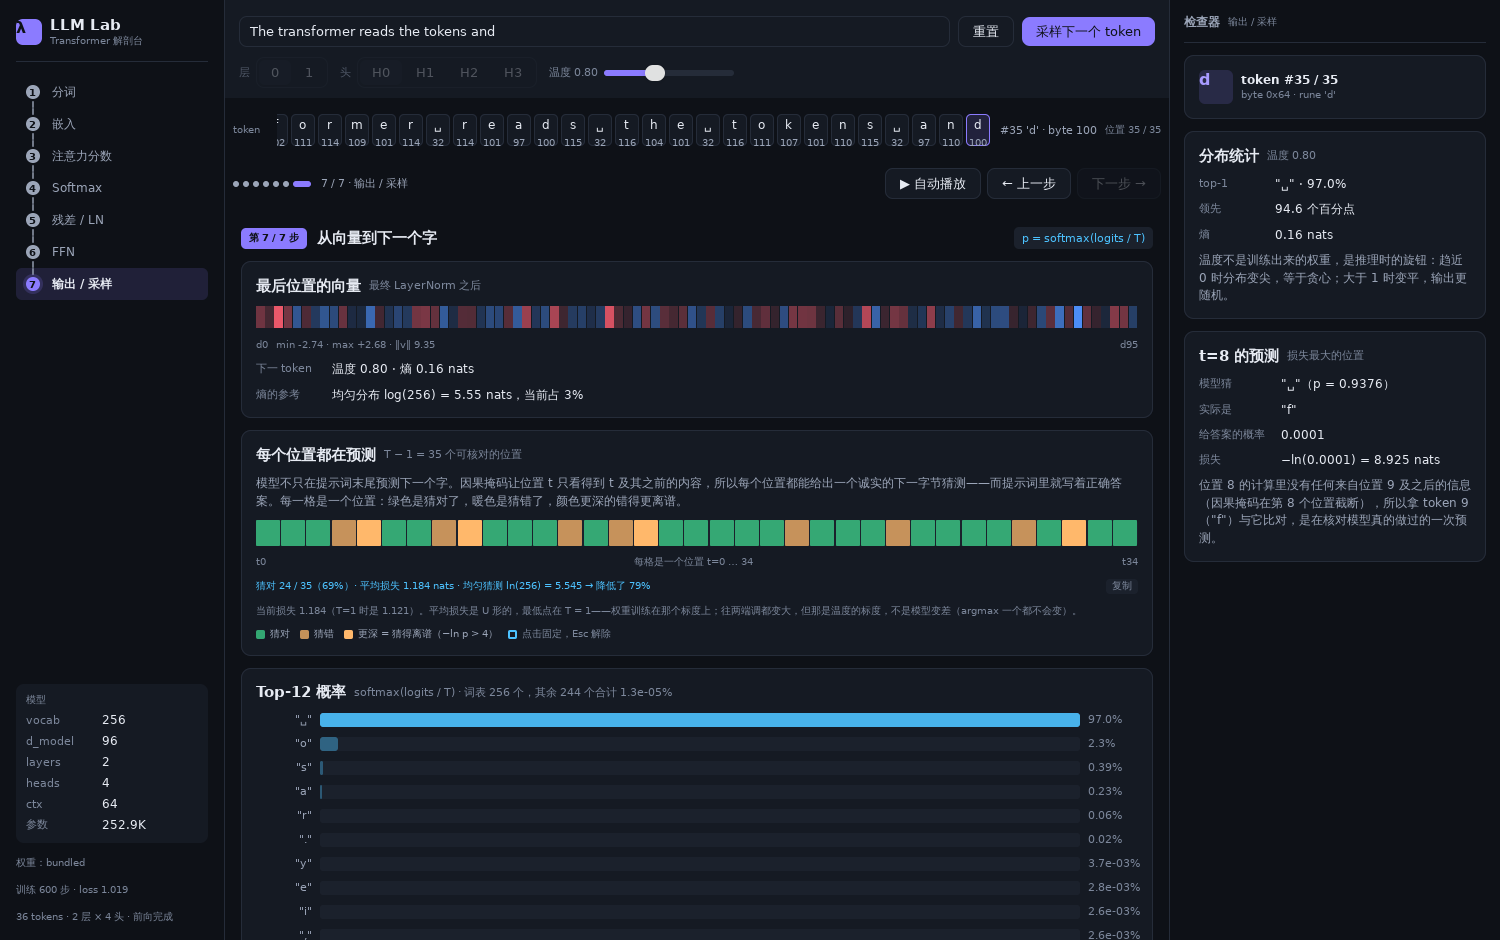
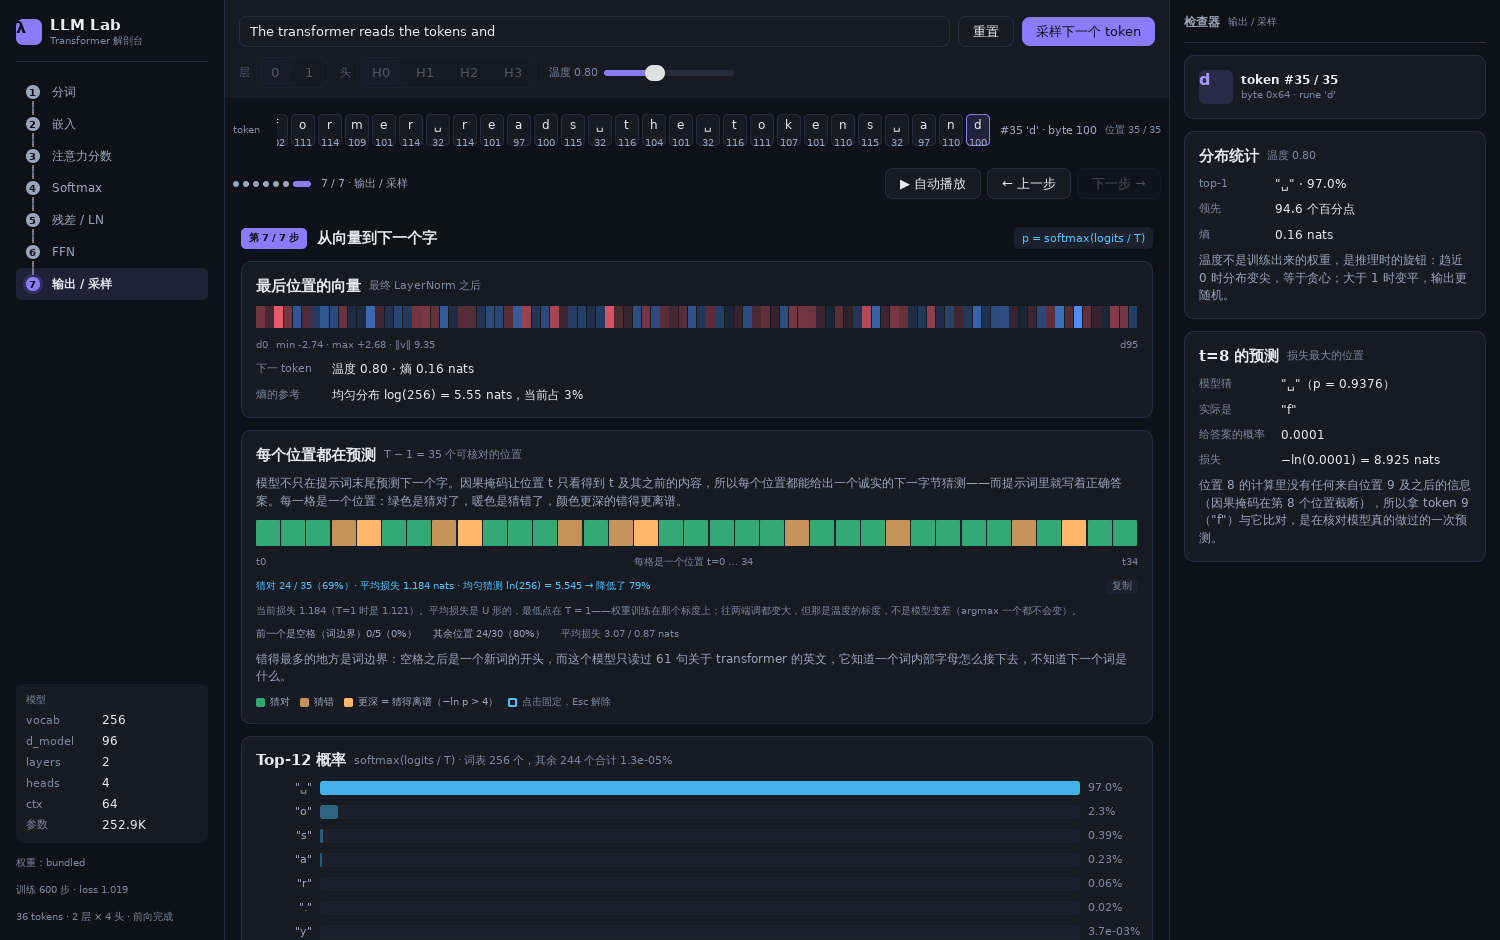
feat(app): split the model's errors at the word boundary
The output stage reported 24/35 correct and 1.121 nats, which reads as "mostly fine".
Splitting the same rows by whether the preceding byte is a space says where the errors
actually are.

Measured across three prompts: after a space the model is right 4 times in 18 (22%),
elsewhere 73 in 96 (76%). On the default prompt the mean loss is 2.87 nats after a
space against 0.83 elsewhere, a factor of 3.5.

The cause is structural rather than statistical, which is what makes it worth a line: a
space is a word boundary, so the next byte begins a new word, and 61 training sentences
about transformers do not teach which word comes next. The model knows how to continue
a word it is already inside. That is also the limitation the README states in prose —
this is the measurement behind it.

- the explanatory sentence appears only while the gap is at least 1.5x. If a weight set
  ever did fine at word starts the sentence would go away rather than become false
- TestSkillBreakdownMatchesTheRows checks the two halves add up to the whole (rows and
  hits), so a row cannot be counted twice or dropped
- TestSkillBreakdownShowsTheWordBoundaryGap pins the gap across three prompts, since
  the sentence's default state is the one that needs the evidence
- TestSkillBreakdownLineRendersItsOwnNumbers reads both rates back out of the text

Also fixed: the first version drew these labels in colGreen, which this app reserves
[…]

Changed region(s): [[0.1533, 0.6479, 0.7667, 0.8638], [0.7053, 0.8638, 0.7667, 1.0]]

diff --git a/internal/app/workings_test.go b/internal/app/workings_test.go
@@ -2429,3 +2429,108 @@ func TestMaskCounterfactualCardQuotesItsOwnNumbers(t *testing.T) {
 			wantZero)
 	}
 }
+
+// TestSkillBreakdownMatchesTheRows checks the word-boundary split against the rows it
+// divides: every row must be counted exactly once, and the two halves must add up.
+func TestSkillBreakdownMatchesTheRows(t *testing.T) {
+	a := newTestApp(t)
+	skill := computeNextByteSkill(a.W, a.Trace, 1.0)
+	b := computeSkillBreakdown(a.Trace, skill)
+	if !b.OK {
+		t.Fatal("the breakdown found no space-separated positions in the default prompt")
+	}
+	if b.AfterSpaceRows+b.OtherRows != skill.Scored {
+		t.Fatalf("breakdown covers %d + %d rows, the skill has %d",
+			b.AfterSpaceRows, b.OtherRows, skill.Scored)
+	}
+	if b.AfterSpaceHits > b.AfterSpaceRows || b.OtherHits > b.OtherRows {
+		t.Fatalf("more hits than rows: %+v", b)
+	}
+	if b.AfterSpaceHits+b.OtherHits != skill.Hits {
+		t.Fatalf("breakdown hits %d + %d, skill says %d",
+			b.AfterSpaceHits, b.OtherHits, skill.Hits)
+	}
+	// And each row really is on the side its predecessor implies.
+	spaceRows, otherRows := 0, 0
+	for _, row := range skill.Rows {
+		if a.Trace.Tokens[row.Pos].Byte == ' ' {
+			spaceRows++
+		} else {
+			otherRows++
+		}
+	}
+	if spaceRows != b.AfterSpaceRows || otherRows != b.OtherRows {
+		t.Fatalf("counted %d/%d rows, recomputed %d/%d", b.AfterSpaceRows, b.OtherRows, spaceRows, otherRows)
+	}
+}
+
+// TestSkillBreakdownShowsTheWordBoundaryGap is the premise of the sentence: this model
+// is much worse at the byte after a space than anywhere else.
+//
+// The card only prints that explanation when the gap is at least 1.5x, so if the model
+// ever became good at word starts the sentence would stop appearing rather than become a
+// lie. This checks the gap is there for the bundled weights across several prompts, so
+// the card's default state is the one with the explanation.
+func TestSkillBreakdownShowsTheWordBoundaryGap(t *testing.T) {
+	totalSpace, totalSpaceHits := 0, 0
+	totalOther, totalOtherHits := 0, 0
+	for _, prompt := range []string{
+		"The transformer reads the tokens and",
+		"attention is all you need",
+		"Attention lets every token look at the tokens before it.",
+	} {
+		a := newTestApp(t)
+		a.Prompt = prompt
+		a.recompute()
+		b := computeSkillBreakdown(a.Trace, computeNextByteSkill(a.W, a.Trace, 1.0))
+		if !b.OK {
+			continue
+		}
+		totalSpace += b.AfterSpaceRows
+		totalSpaceHits += b.AfterSpaceHits
+		totalOther += b.OtherRows
+		totalOtherHits += b.OtherHits
+	}
+	if totalSpace == 0 || totalOther == 0 {
+		t.Fatal("no rows measured")
+	}
+	spaceRate := float64(totalSpaceHits) / float64(totalSpace)
+	otherRate := float64(totalOtherHits) / float64(totalOther)
+	if otherRate < 1.5*spaceRate {
+		t.Fatalf("after a space: %d/%d (%.0f%%); elsewhere %d/%d (%.0f%%). The card says the "+
+			"word boundary is where the errors are, which needs a clear gap",
+			totalSpaceHits, totalSpace, 100*spaceRate, totalOtherHits, totalOther, 100*otherRate)
+	}
+	t.Logf("word boundary %d/%d (%.0f%%), elsewhere %d/%d (%.0f%%)",
+		totalSpaceHits, totalSpace, 100*spaceRate, totalOtherHits, totalOther, 100*otherRate)
+}
+
+// TestSkillBreakdownLineRendersItsOwnNumbers reads the breakdown out of the rendered
+// text on the output stage.
+func TestSkillBreakdownLineRendersItsOwnNumbers(t *testing.T) {
+	a := newTestApp(t)
+	a.Step = 6
+	tr := ui.NewTester(a.View, 1500, 2600)
+	tr.Frame()
+	b := computeSkillBreakdown(a.Trace, computeNextByteSkill(a.W, a.Trace, 1.0))
+	if !b.OK {
+		t.Fatal("no breakdown")
+	}
+	wantSpace := fmt.Sprintf("%d/%d（%.0f%%）", b.AfterSpaceHits, b.AfterSpaceRows,
+		100*float64(b.AfterSpaceHits)/float64(b.AfterSpaceRows))
+	wantOther := fmt.Sprintf("%d/%d（%.0f%%）", b.OtherHits, b.OtherRows,
+		100*float64(b.OtherHits)/float64(b.OtherRows))
+	joined := ""
+	for _, s := range tr.Texts() {
+		joined += s + "\n"
+	}
+	if !strings.Contains(joined, wantSpace) {
+		t.Fatalf("the card does not print the word-boundary rate %q", wantSpace)
+	}
+	if !strings.Contains(joined, wantOther) {
+		t.Fatalf("the card does not print the elsewhere rate %q", wantOther)
+	}
+	if !strings.Contains(joined, "词边界") {
+		t.Fatal("the card does not name the word boundary")
+	}
+}

diff --git a/internal/app/stages.go b/internal/app/stages.go
@@ -2046,6 +2046,7 @@ func (a *App) stageNextByteSkill(c *ui.Context) {
 		mutedText(c, nextByteSkillIntro)
 		a.predictionStrip(c, skill)
 		a.nextByteSkillSummary(c, tr, skill)
+		a.skillBreakdownLine(c, tr, skill)
 		// One legend line, not four: the counts it would carry are already in the
 		// summary above, and on this stage every row of chrome pushes the sampling
 		// card's own button out of the window. What the strip's colours and its
@@ -2252,4 +2253,43 @@ func (a *App) stageHeadProfiles(c *ui.Context) {
 			verdict,
 		})
 	})
+}
+
+// skillBreakdownLine puts the per-position accuracy beside the breakdown that explains
+// it, because the overall figure flatters this model.
+//
+// Measured across three prompts: positions whose predecessor is a space are right 4
+// times in 18, while everything else is right 73 in 96. On the default prompt the mean
+// loss is 2.87 nats after a space against 0.83 elsewhere. The cause is structural — a
+// space is a word boundary, so the next byte starts a new word, and 61 training
+// sentences do not teach which word comes next. It does know how to continue a word it
+// is already inside.
+func (a *App) skillBreakdownLine(c *ui.Context, tr *model.Trace, skill nextByteSkill) {
+	b := computeSkillBreakdown(tr, skill)
+	if !b.OK {
+		return
+	}
+	pct := func(hits, rows int) string {
+		if rows == 0 {
+			return "—"
+		}
+		return fmt.Sprintf("%d/%d（%.0f%%）", hits, rows, 100*float64(hits)/float64(rows))
+	}
+	// Text colours, not data colours. colGreen means "a value in a chart" everywhere
+	// else in this app, and a prose label wearing it reads as a plotted value;
+	// TestDataColoursStayOutOfText enforces that, and it caught this.
+	ui.Row(c).Gap(16).Wrap().AlignItems(ui.Center).Children(func() {
+		ui.Text(c, "前一个是空格（词边界）"+pct(b.AfterSpaceHits, b.AfterSpaceRows)).
+			FontSize(fontMicro).TextColor(colMuted)
+		ui.Text(c, "其余位置 "+pct(b.OtherHits, b.OtherRows)).
+			FontSize(fontMicro).TextColor(colMuted)
+		ui.Text(c, fmt.Sprintf("平均损失 %.2f / %.2f nats", b.AfterSpaceLoss, b.OtherLoss)).
+			FontSize(fontMicro).TextColor(colFaint)
+	})
+	// Only worth the sentence when the gap is actually there; a prompt planted with
+	// spaces in unusual places could invert it, and the claim has to follow.
+	if b.AfterSpaceLoss > 1.5*b.OtherLoss {
+		mutedText(c, "错得最多的地方是词边界：空格之后是一个新词的开头，而这个模型只读过 61 句关于 "+
+			"transformer 的英文，它知道一个词内部字母怎么接下去，不知道下一个词是什么。")
+	}
 }

diff --git a/internal/app/workings.go b/internal/app/workings.go
@@ -1092,3 +1092,61 @@ func meanFutureShare(h model.HeadTrace, tokens, dHead int) (share float64, rows 
 	}
 	return share / float64(rows), rows
 }
+
+// skillBreakdown splits the per-position predictions by what came immediately before
+// them, which is where this model's errors actually concentrate.
+//
+// Measured on the bundled weights: positions whose predecessor is a space are guessed
+// correctly 4 times in 18 across three prompts, against 73 in 96 elsewhere, and on the
+// default prompt the mean loss there is 2.87 nats against 0.83 — a factor of 3.5. The
+// reason is structural rather than statistical: a space is a word boundary, so the next
+// byte is the first letter of a word, and this model's whole training set is 61
+// sentences. It knows which letters continue a word it is already inside; it does not
+// know which word comes next.
+//
+// Stated as a breakdown rather than a single average because the average hides it: 69%
+// correct overall reads as "mostly fine", while 0/5 after spaces reads as what it is.
+type skillBreakdown struct {
+	// AfterSpaceHits/AfterSpaceRows are the positions whose predecessor is a space.
+	AfterSpaceHits, AfterSpaceRows int
+	// AfterSpaceLoss is the mean loss over those rows, and OtherLoss over the rest.
+	AfterSpaceLoss, OtherLoss float64
+	// OtherHits/OtherRows are everything else.
+	OtherHits, OtherRows int
+	OK                   bool
+}
+
+// computeSkillBreakdown splits a skill summary's rows by word boundary.
+func computeSkillBreakdown(tr *model.Trace, skill nextByteSkill) skillBreakdown {
+	b := skillBreakdown{}
+	if tr == nil || len(skill.Rows) == 0 {
+		return b
+	}
+	var spaceLoss, otherLoss float64
+	for _, row := range skill.Rows {
+		if row.Pos < 0 || row.Pos >= len(tr.Tokens) {
+			continue
+		}
+		if tr.Tokens[row.Pos].Byte == ' ' {
+			b.AfterSpaceRows++
+			if row.Hit {
+				b.AfterSpaceHits++
+			}
+			spaceLoss += row.Loss
+			continue
+		}
+		b.OtherRows++
+		if row.Hit {
+			b.OtherHits++
+		}
+		otherLoss += row.Loss
+	}
+	if b.AfterSpaceRows > 0 {
+		b.AfterSpaceLoss = spaceLoss / float64(b.AfterSpaceRows)
+	}
+	if b.OtherRows > 0 {
+		b.OtherLoss = otherLoss / float64(b.OtherRows)
+	}
+	b.OK = b.AfterSpaceRows > 0 && b.OtherRows > 0
+	return b
+}

diff --git a/internal/app/app_test.go b/internal/app/app_test.go
@@ -8313,8 +8313,11 @@ func TestProseDiffersBetweenWeightsOnlyWhereDesigned(t *testing.T) {
 		// its sentences moves with them — which rungs agree with the final answer,
 		// how many are confidently wrong, and the rung names in the sentence.
 		4: {"训练出来的", "这份权重没有训练过", "只看这个位置", "最后一个中间层"},
-		5: {"只剩一根柱子", "还能看出分布的形状"},  // the GELU squeeze note
-		6: {"这么高的把握", "根本没有那么大的把握"}, // the confidence note
+		5: {"只剩一根柱子", "还能看出分布的形状"}, // the GELU squeeze note
+		// the confidence note, plus the word-boundary sentence: whether the gap it
+		// describes exists is a property of the weights, so with random ones it is
+		// absent rather than false
+		6: {"这么高的把握", "根本没有那么大的把握", "错得最多的地方是词边界"},
 	}
 
 	collect := func(w *model.Weights) []map[string]bool {
@@ -8503,7 +8506,11 @@ func TestProseDiffersAcrossPromptLengthsOnlyWhereDesigned(t *testing.T) {
 			"这个提示词只有一个位置",
 			// The per-position card's body exists only when there is a position to score, so
 			// every fixed line of it is absent for a one-token prompt by design.
-			"当前损失 #", "均匀猜测", "与它比对"},
+			"当前损失 #", "均匀猜测", "与它比对",
+			// The word-boundary sentence: a one-token prompt has no position whose
+			// predecessor is a space. (Only fragments from strings over 40 runes count —
+			// collect() drops shorter ones as labels rather than prose.)
+			"错得最多的地方是词边界"},
 	}
 
 	collect := func(prompt string) []map[string]bool {

diff --git a/README.md b/README.md
@@ -193,6 +193,7 @@ go run . -weights /path/to/other.json  # 换一份权重（需为 vocab 256 的 
 - **逐张量与 PyTorch 对齐**：`tools/parity.py` 把同一份 `weights.json` 在 PyTorch 里跑一遍，导出 46 token 提示词的全部中间结果（embedding、每层 Norm1、每个头的 Q/K/V、score、attn、头输出、AttnProj、Norm2、GELU 前后、FFN 输出、最终 Norm、logits），Go 侧 `TestParityEveryTensor` 逐项比对，中间张量最大误差 3e-6，logits 1.6e-5——logit 是 256 项点积的和，误差在最后一步被放大。GELU 与 softmax 的 exp 都用查表近似，误差分别 ≤ 4e-7、2.4e-6，由 `TestGeluMatchesErf`、`TestExpNegMatchesExp` 锁定；标量与 SIMD 构建结果一致。这比只比最终 logits 严格得多：头切片顺序、拼接布局、GELU 变体、LayerNorm 的 eps 出错都会被抓到
 - 单头贡献之和严格等于该层的注意力输出（`TestHeadProjSumsToAttnProj`），界面上「本头贡献 Δ_h」不是拿总和冒充的
 - **逐位置预测与记录下来的 logits 逐位一致**：第 7 步的逐位置卡片用 `Weights.Unembed` 重新投影每一行，`TestUnembedReproducesTheRecordedLogits` 要求它对最后一行的结果与 `Forward` 存进 `Trace.Logits` 的值**每个 bit 都相同**——否则同一张卡片上两个数会不一致
+- **误差集中在词边界，而且这一点有分解依据**：输出阶段把逐位置的成绩按「前一个字节是不是空格」拆开。实测三个提示词合起来，空格之后猜对 **4/18（22%）**，其余位置 **73/96（76%）**；默认提示词上平均损失 **2.87 vs 0.83 nats**。原因是结构性的：空格之后是新词的开头，而这个模型只读过 61 句关于 transformer 的英文——它知道词内部字母怎么接下去，不知道下一个词是什么。`TestSkillBreakdownMatchesTheRows` 校验两半相加等于总数，`TestSkillBreakdownShowsTheWordBoundaryGap` 钉住这个差距确实存在（否则卡片上那句话按条件不显示，而不是说谎）
 - **逐位置卡片报的损失不是编的**：`TestNextByteSkillMatchesTheModel` 逐位置核对「猜的是自己那一行的 argmax」「比对的是提示词的下一个字节」「损失就是 −ln p(正确字节)」；`TestNextByteSkillLossIsReal` 要求平均损失确实低于均匀猜测的 ln 256，且既不是全对也不是全错（否则色带只有一个颜色）。`TestNextByteSkillIsCalibratedAtTOne` 钉住一个反直觉的实测结果：平均损失对温度是 **U 形**的，最低点在 T = 1，往两端都变大——所以卡片必须说明这个数字随滑块移动，而不是模型变差了
 - 用 `ui.Tester` 模拟真实点击，验证阶段切换
 

diff --git a/CHANGELOG.md b/CHANGELOG.md
@@ -6,6 +6,13 @@
 
 ### Added
 
+- 输出阶段的逐位置卡片补上一行**按词边界拆开的成绩**，把「这个模型经常错」变成「错在哪里、为什么」
+  - 实测三个提示词合计：**空格之后猜对 4/18（22%），其余位置 73/96（76%）**；默认提示词上平均损失 **2.87 vs 0.83 nats**（3.5 倍）
+  - 原因是结构性的：空格之后是新词的开头，而这个模型只读过 61 句关于 transformer 的英文——**它知道一个词内部的字母怎么接下去，不知道下一个词是什么**。这正是「总准确率 69%」这个数字掩盖掉的东西
+  - 那句话**按条件显示**：只有当空格后的平均损失超过其余位置 1.5 倍时才出现。否则它就是错的（若某份权重在词边界上表现正常），宁可不说
+  - `TestSkillBreakdownMatchesTheRows` 校验两半的行数与命中数相加等于总数（防止漏算/重复算）；`TestSkillBreakdownShowsTheWordBoundaryGap` 钉住差距在三个提示词上确实存在；`TestSkillBreakdownLineRendersItsOwnNumbers` 从渲染文字里核对两个比率
+- 修：写这行时用了 `colGreen` 当**文字**颜色，而本项目规定 `colGreen` 是「图表里的数值」专用色。`TestDataColoursStayOutOfText` 直接抓到——改用 `colMuted`，顺便也更符合它是散文标签而非绘制值
+
 - 第 3 步新增「掩码挡掉了什么」：用模型自己存下来的 `Q`/`K`，把选中那一行**不看掩码**地重算一遍，看它本来会看向哪里
   - 掩码之上的分数在 `HeadTrace.Scores` 里是 `-Inf`，所以不能从矩阵反读——必须用同样的 `1/√d_head`、同样的 float32 点积顺序重算，得到的才是被删掉的那些数
   - 实测（默认提示词，整句平均）：**每个头都会把 51%–84% 的注意力放到被掩码遮住的位置上**；第 0 行最极端，它只有一个可见 key，去掉掩码后 **100%** 的注意力跑到后面，最大的一格是 k34 的 47%
